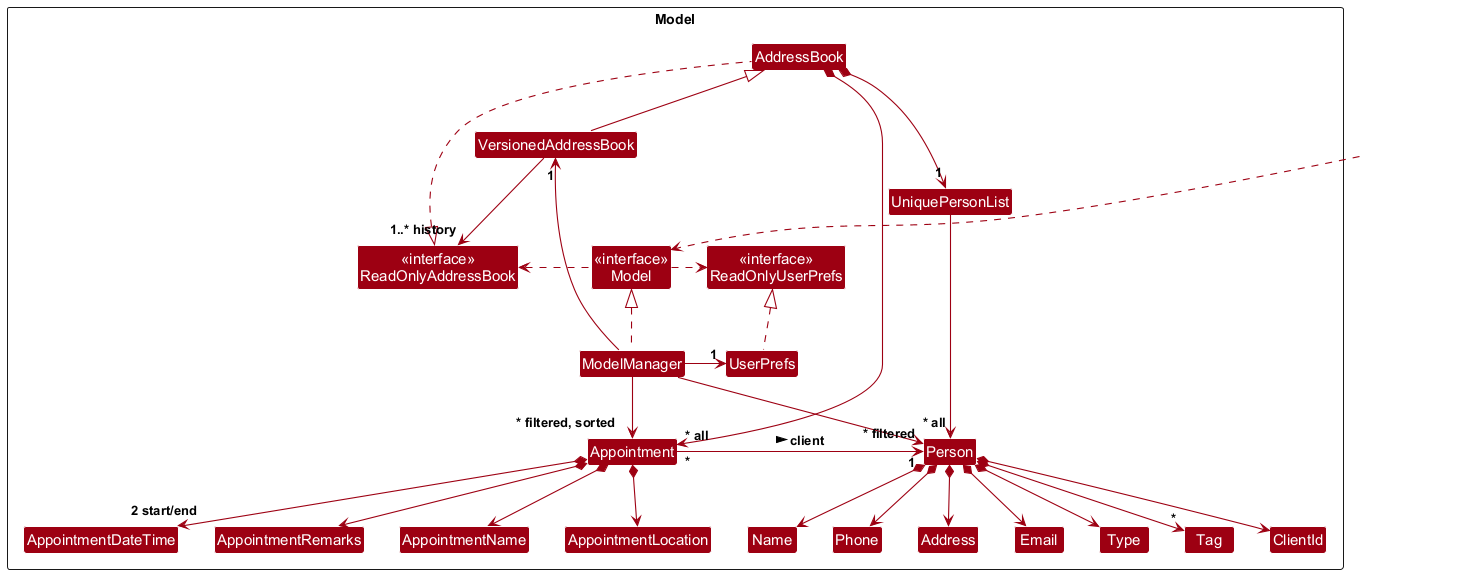
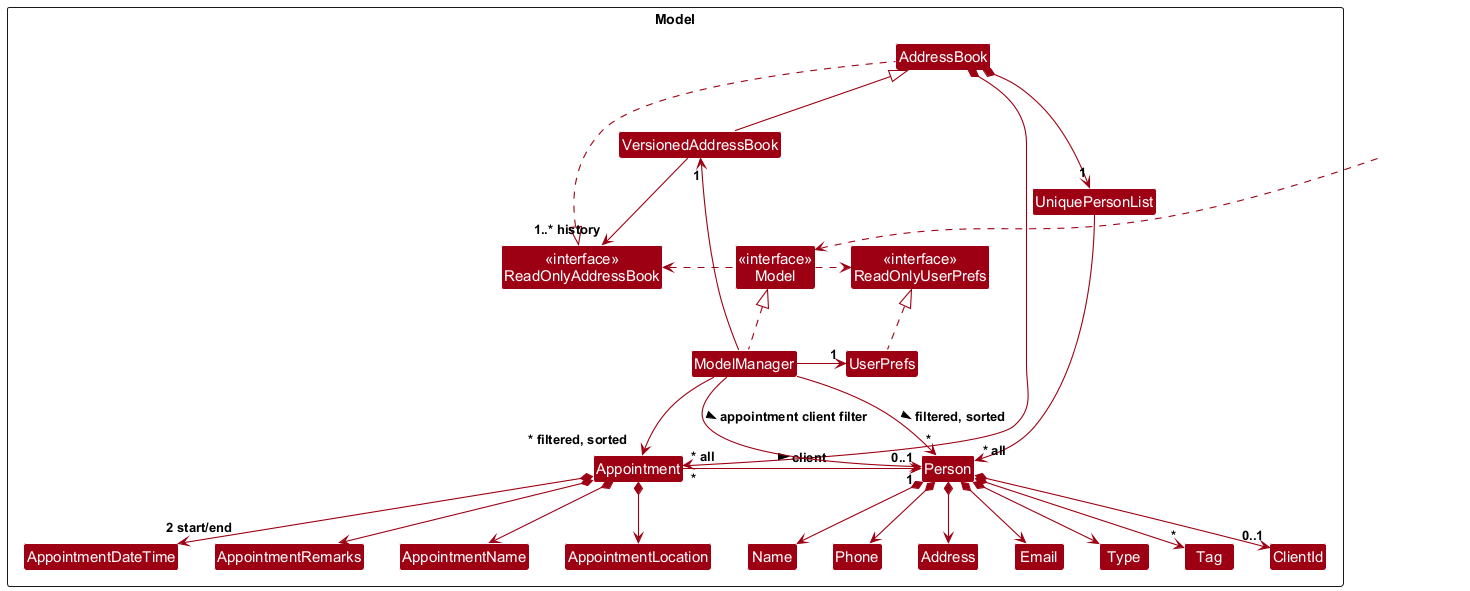
Correct associations in the Model and Storage class diagrams
Checking the diagrams against the code found four mismatches. The
client list ModelManager exposes is sorted as well as filtered. A
Person has no ClientId until it is added to an address book.
ModelManager also holds the appointment client filter as a Person.
JsonAdaptedAppointment does not use JsonAdaptedPerson; it stores only
an integer position.

Fix the multiplicities and associations, drop the incorrect storage
dependency, and match the Model component text to the diagram.

Refs #89

diff --git a/docs/DeveloperGuide.md b/docs/DeveloperGuide.md
@@ -131,8 +131,8 @@ The `Model` component,
 * stores the address book data, i.e. all `Person` objects (contained in a `UniquePersonList` object) and all `Appointment` objects.
   Each `Appointment` refers to the `Person` it is for, so editing a client updates its appointments and deleting a client removes them.
 * holds that data in a `VersionedAddressBook`, an `AddressBook` that also keeps the snapshots used by `undo` and `redo` (see [Undo/redo feature](#undoredo-feature)).
-* stores the `Person` objects selected by the current filter, such as search results, in a separate _filtered_ list. It exposes this list as an unmodifiable `ObservableList<Person>` that the UI can observe and bind to, so the UI updates when the list changes.
-* similarly exposes the `Appointment` objects selected by the current client and date filter as an unmodifiable list, sorted by start time.
+* stores the `Person` objects selected by the current filter, such as search results, in a separate _filtered_ list, sorted by name and then client ID. It exposes this list as an unmodifiable `ObservableList<Person>` that the UI can observe and bind to, so the UI updates when the list changes.
+* similarly exposes the `Appointment` objects selected by the current client and date filter as an unmodifiable list in chronological order. The client filter holds the selected `Person` itself, not their position in the displayed list.
 * stores a `UserPrefs` object that represents the user’s preferences (currently, just the GUI settings). This is exposed to the outside as a `ReadOnlyUserPrefs` object.
 * does not depend on any of the other three components (as the `Model` represents data entities of the domain, they should make sense on their own without depending on other components)
 
